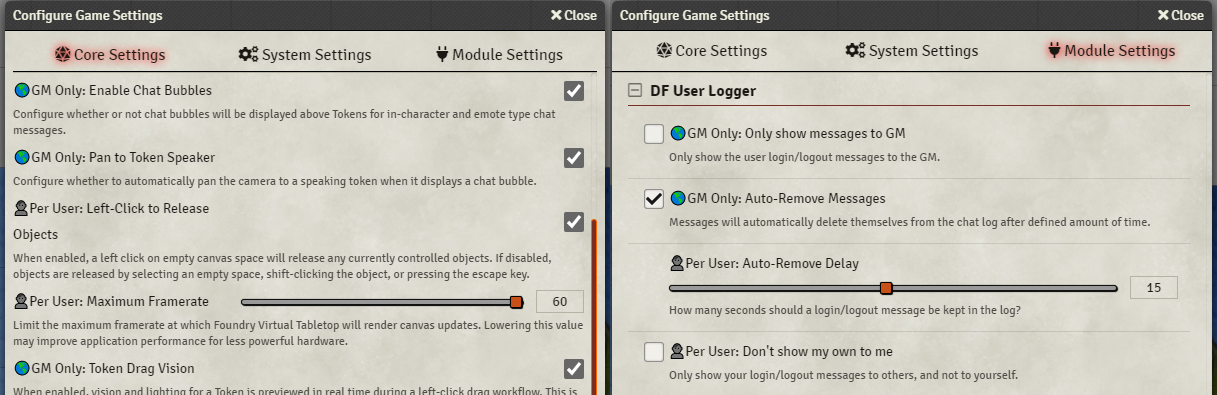
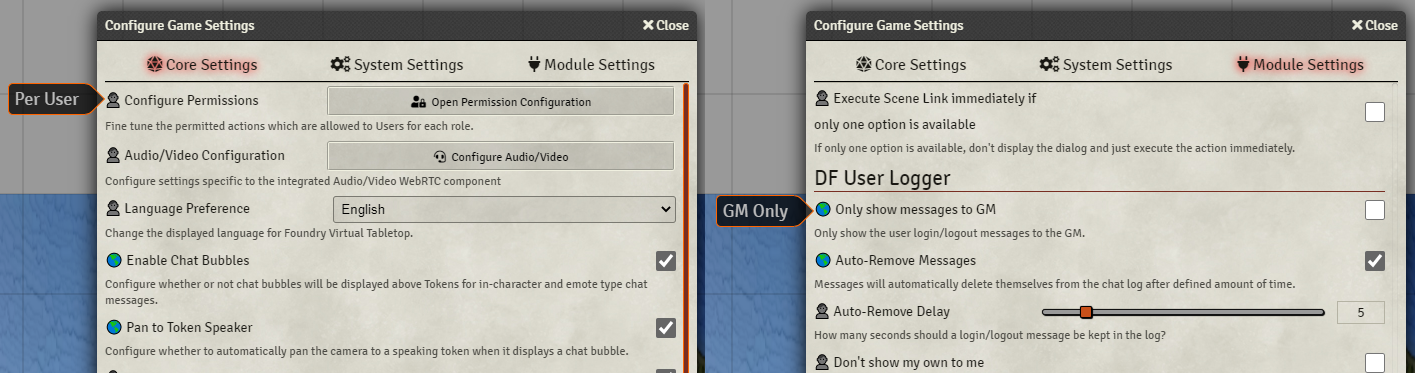
settings-clarity: moved label to onhover tooltip

diff --git a/df-settings-clarity/df-settings-clarity.js b/df-settings-clarity/df-settings-clarity.js
@@ -1,5 +1,7 @@
 
 class DFSettingsClarity {
+	static types = ["client", "world"];
+
 	static patchGameSettings() {
 		game.settings.dfSettingsClarity_register = game.settings.register;
 		game.settings.register = DFSettingsClarity.settingsRegister;
@@ -17,9 +19,9 @@ class DFSettingsClarity {
 	}
 
 	static formatName(name, scope) {
-		scope = ["client", "world"].includes(scope) ? scope : "client";
-		let token = game.i18n.localize('DRAGON_FLAGON.SettingsClarity_' + scope);
-		return !name ? token : `${token} ${game.i18n.localize(name)}`;
+		scope = DFSettingsClarity.types.includes(scope) ? scope : "client";
+		if (scope === 'client') return !name ? '👤 ' : '👤 ' + game.i18n.localize(name);
+		else if (scope === 'world') return !name ? '🌎 ' : '🌎 ' + game.i18n.localize(name);
 	}
 
 	static settingsRegister(module, key, data) {
@@ -31,13 +33,52 @@ class DFSettingsClarity {
 		data.name = DFSettingsClarity.formatName(data.name, data.scope);
 		game.settings.dfSettingsClarity_registerMenu(module, key, data);
 	}
+
+	static showWorldHover(event) {
+		if(event.clientX > $(event.target).offset().left + 30) DFSettingsClarity.hideHover();
+		else DFSettingsClarity.showHover($(event.target), 'world');
+	}
+	static showClientHover(event) {
+		if(event.clientX > $(event.target).offset().left + 30) DFSettingsClarity.hideHover();
+		else DFSettingsClarity.showHover($(event.target), 'client');
+	}
+
[1 lines of base64/hex data omitted]
+	static showHover(element, scope) {
+		const hover = DFSettingsClarity.hover;
+		if(hover.parent().length != 0) return;
+		hover.find('span.msg').text(game.i18n.localize('DRAGON_FLAGON.SettingsClarity_' + scope))
+		$(document.body).append(hover);
+		const css = {
+			position: 'absolute',
+			left: `${element.offset().left - hover.outerWidth()}px`,
+			top: `${element.offset().top - 15}px`
+		};
+		hover.css(css);
+	}
+	static hideHover() {
+		if(DFSettingsClarity.hover.parent().length == 0) return;
+		DFSettingsClarity.hover.remove();
+	}
 }
 
 
 Hooks.on('setup', function () {
 	var user = game.data.users.find(x => x._id === game.userId);
-	if(!!user && user.role >= 3) {
+	if (!!user && user.role >= 3) {
 		DFSettingsClarity.patchGameSettings();
 		DFSettingsClarity.patchGameSettingsMenus();
 	}
+	$(document.body).append(DFSettingsClarity.hover);
+});
+Hooks.on('ready', function () {
+	DFSettingsClarity.hover.remove();
+	DFSettingsClarity.hover.attr("style", "");
+})
+
+Hooks.on('renderSettingsConfig', function (settingsConfig, html, data) {
+	html.find("label:contains('🌎')").mousemove(DFSettingsClarity.showWorldHover);
+	html.find("label:contains('🌎')").mouseleave( DFSettingsClarity.hideHover);
+	html.find("label:contains('👤')").mousemove(DFSettingsClarity.showClientHover);
+	html.find("label:contains('👤')").mouseleave(DFSettingsClarity.hideHover);
 });

diff --git a/df-settings-clarity/css/df-settings-clarity.css b/df-settings-clarity/css/df-settings-clarity.css
@@ -1,0 +1,28 @@
+.df-settings-clarity-tooltip {
+	position: absolute;
+	width: auto;
+	height: 30px;
+	z-index: 5000;
+	display: inline-block;
+}
+
+.df-settings-clarity-tooltip .msg {
+	color: #BBB;
+	font-size: 18px;
+	line-height: 18px;
+	text-align: center;
+	vertical-align: middle;
+	background: rgba(0, 0, 0, 0.75);
+	border: thin solid #ff6400;
+	border-right: none;
+	border-radius: 5px 0px 0px 5px;
+	padding: 6px;
+	display: inline-block;
+}
+.df-settings-clarity-tooltip img {
+	width: 20px;
+	height: 32px;
+	top: 12.5px;
+	border: none;
+	position: relative;
+}

diff --git a/df-settings-clarity/CHANGELOG.md b/df-settings-clarity/CHANGELOG.md
@@ -1,6 +1,9 @@
 # DF Settings Clarity
 
-## Release 2.0.3 (2021-01-26)
+## Release 2.1.0 (2021-01-26)
+- Moved the text label into a tooltip and now only add the emoticon to the settings label. Much more minimal and unobtrusive.
+
+## Release 2.0.3 (2021-01-25)
 - Added emoticons to the labels to make them more visually distinct.
 
 ## Release 2.0.2
